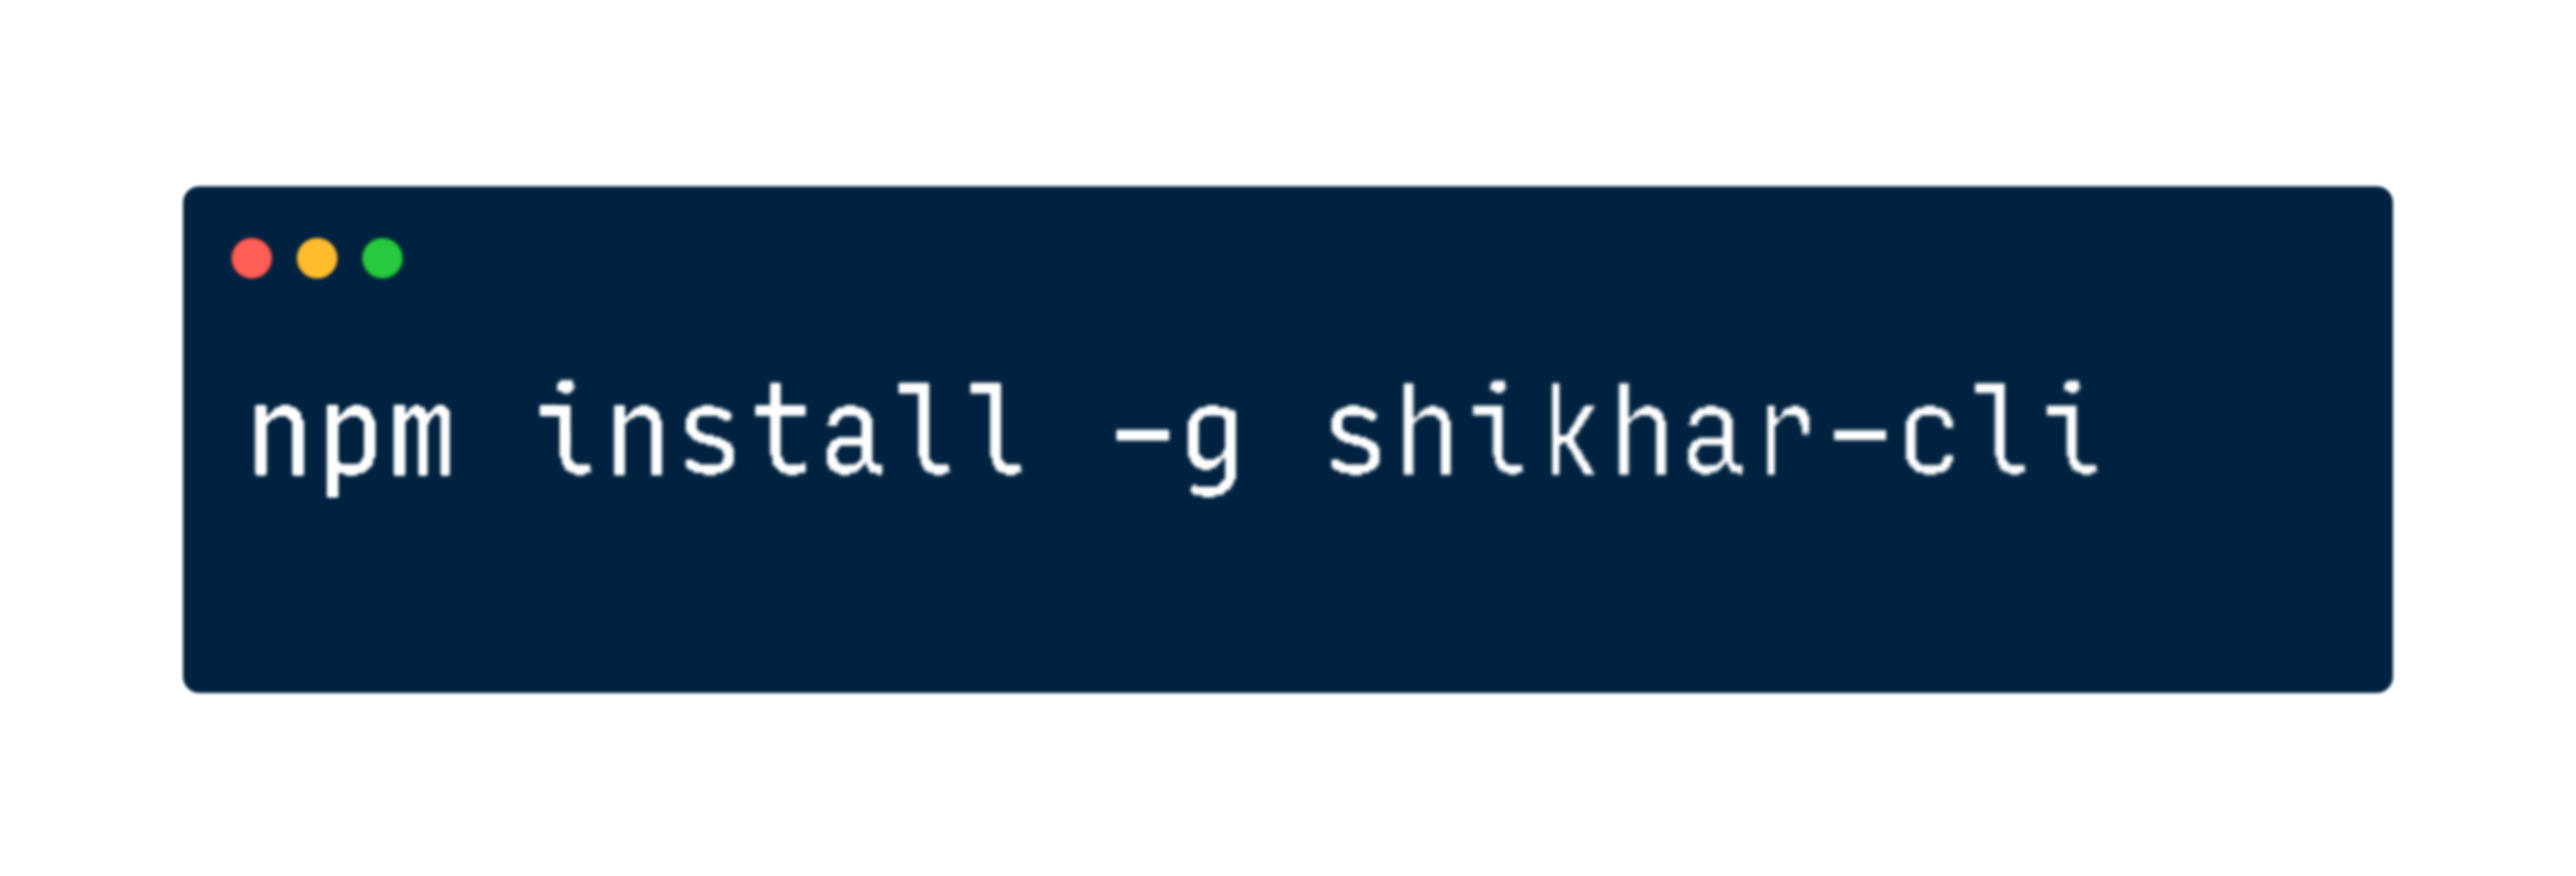
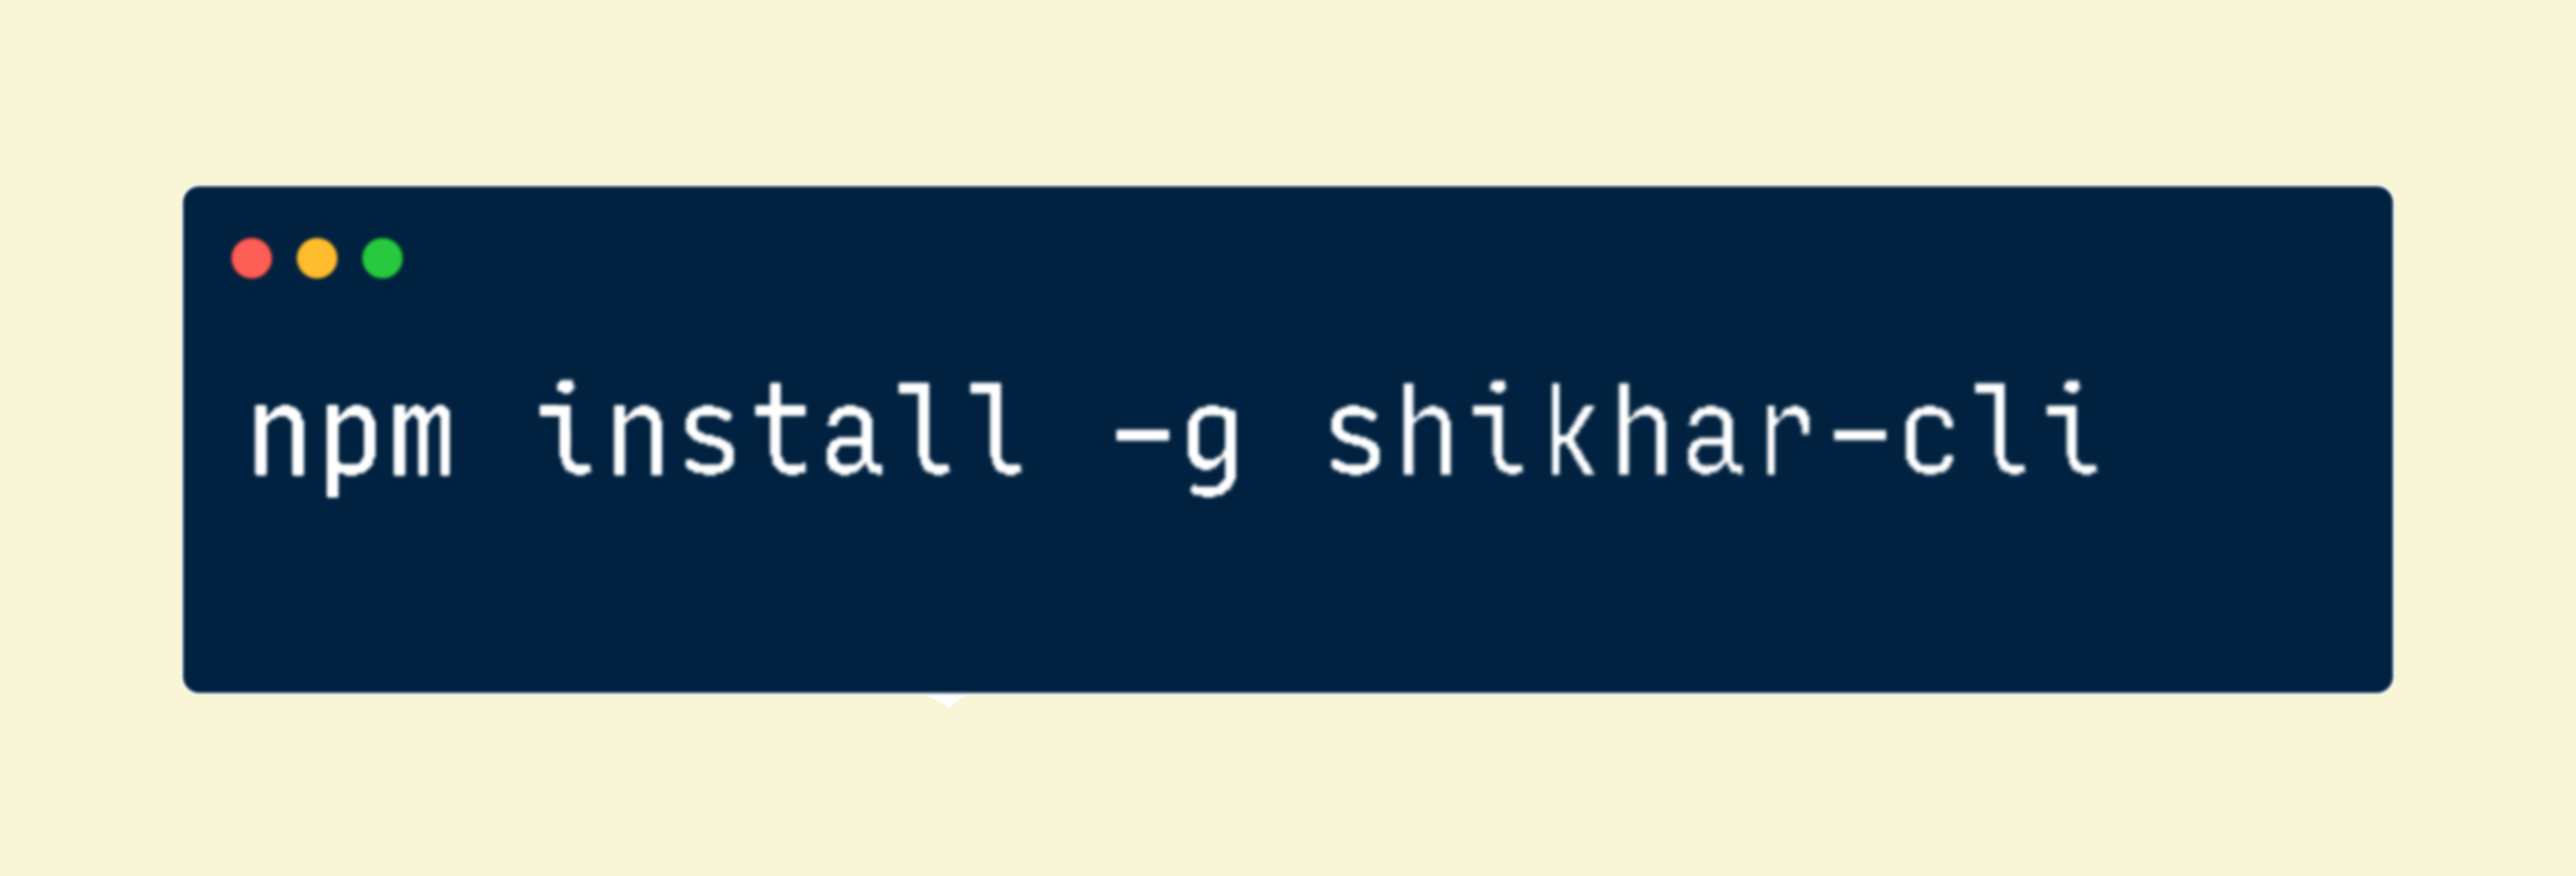
Add Services and Footer code

diff --git a/index.html b/index.html
@@ -30,7 +30,7 @@
     <section class="showcase">
         <div class="container grid">
             <div class="showcase-text">
-                <h1>Secure Emails</h1>
+                <h1>Secure Emails and More.</h1>
                 <p>Lorem ipsum, dolor sit amet consectetur adipisicing elit. Nostrum veritatis similique ipsum suscipit
                     provident dolores omnis error expedita cumque quas.</p>
                 <a href="features.html" class="btn btn-outline">Read More</a>
@@ -93,6 +93,69 @@
             </div>
         </div>
     </section>
+
+    <!-- Cloud -->
+    <section class="cloud bg-primary my-2 py-2">
+        <div class="container grid">
+            <div class="text-center">
+                <h2 class="lg">
+                    You are in Power
+                </h2>
+                <p class="lead my-1">Lorem, ipsum dolor sit amet consectetur adipisicing elit. Ut necessitatibus
+                    repellendus mollitia accusamus, harum molestias?</p>
+                <a href="features.html" class="btn btn-dark">Read More</a>
+            </div>
+            <img src="Images/cloud.png" alt="computer-connected-to-clouds">
+        </div>
+    </section>
+
+    <!-- Services -->
+    <section class="services">
+        <h2 class="md text-center my-2">
+            Our Services
+        </h2>
+        <div class="container flex">
+            <div class="card">
+                <h4>Drive</h4>
+                <img src="Images/Logos/Drive.svg" alt="drive">
+            </div>
+            <div class="card">
+                <h4>Vpn</h4>
+                <img src="Images/Logos/Vpn.svg" alt="vpn">
+            </div>
+            <div class="card">
+                <h4>Calendar</h4>
+                <img src="Images/Logos/Calendar.svg" alt="calendar">
+            </div>
+            <div class="card">
+                <h4>Mail</h4>
+                <img src="Images/Logos/Mail.svg" alt="mail">
+            </div>
+        </div>
+    </section>
+
+    <!-- Footer -->
+    <footer class="footer bg-dark py-5">
+        <div class="container grid grid-3">
+            <div>
+                <h1>Shikhar</h1>
+                <p>Copyright: &copy; 2069</p>
+            </div>
+            <nav>
+                <ul>
+                    <li><a href="index.html">Home</a></li>
+                    <li><a href="features">Features</a></li>
+                    <li><a href="docs.html">Docs</a></li>
+                </ul>
+            </nav>
+            <div class="social">
+                <a href="#"><i class="fab fa-github fa-2x"></i></a>
+                <a href="#"><i class="fab fa-twitter fa-2x"></i></a>
+                <a href="#"><i class="fab fa-facebook fa-2x"></i></a>
+                <a href="#"><i class="fab fa-instagram fa-2x"></i></a>
+            </div>
+        </div>
+    </footer>
 
 </body>
 

diff --git a/css/style.css b/css/style.css
@@ -2,8 +2,11 @@
 
 :root {
     --primary-color: #fb4934;
+    --secondary-color: #cc241d;
     --fg-white: #fbf1c7;
     --fg-black: #282828;
+    --bg-light: #f9f5d7;
+    --bg-dark: #1d2021;
 
 }
 
@@ -17,6 +20,7 @@ body {
     font-family: 'Lato', sans-serif;
     color: var(--fg-black);
     line-height: 1.6;
+    background-color: var(--bg-light);
 }
 
 ul {
@@ -128,7 +132,7 @@ img {
     bottom: -70px;
     right: 0;
     left: 0;
-    background: white;
+    background: var(--bg-light);
     transform: skewY(-3deg);
     -webkit-transform: skewY(-3deg);
     -moz-transform: skewY(-3deg);
@@ -165,4 +169,37 @@ img {
 .cli .grid > *:first-child {
     grid-column: 1 / span 2;
     grid-row: 1 / span 2;
+}
+
+/* Cloud */
+.cloud .grid {
+    grid-template-columns: 4fr 3fr;
+}
+
+/* Services */
+.services .flex {
+    /* the card wraps around when the window is resized */
+    flex-wrap: wrap;
+}
+
+.services .card {
+    text-align: center;
+    margin: 18px 10px 40px;
+    cursor: pointer;
+    /* Apply smooth transition to the transform on hover */
+    transition: transform 0.2s ease-in;
+}
+
+.services .card h4 {
+    font-size: 20px;
+    margin-bottom: 10px;
+}
+
+.services .card:hover {
+    transform: translateY(-15px);
+}
+
+/* Footer */
+.footer .social a {
+    margin: 0 10px;
 }

diff --git a/css/utilities.css b/css/utilities.css
@@ -35,6 +35,57 @@
     border: 1px var(--fg-white) solid;
 }
 
+/* background and colored buttons */
+.bg-primary, .btn-primary {
+    background-color: var(--primary-color);
+    color: var(--fg-white);
+}
+
+.bg-secondary, .btn-secondary {
+    background-color: var(--secondary-color);
+    color: var(--fg-white);
+}
+
+.bg-dark, .btn-dark {
+    background-color: var(--bg-dark);
+    color: var(--fg-white);
+}
+
+.bg-light, .btn-light {
+    background-color: var(--bg-light);
+    color: var(--fg-dark);
+}
+
+.bg-primary a,
+.btn-primary a,
+.bg-secondary a,
+.btn-secondary a,
+.bg-dark a,
+.btn-dark a {
+    color: var(--fg-white);
+}
+
+/* Text sizes */
+.lead {
+    font-size: 20px;
+}
+
+.sm {
+    font-size: 1rem;
+}
+
+.md {
+    font-size: 2rem;
+}
+
+.lg {
+    font-size: 3rem;
+}
+
+.xl {
+    font-size: 4rem;
+}
+
 .text-center {
     text-align: center;
 }
